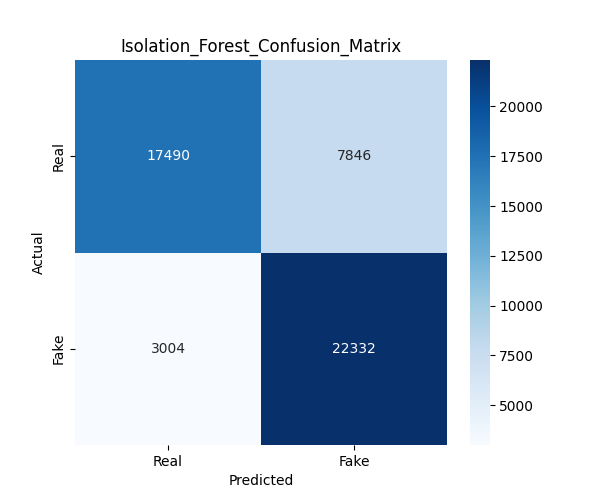
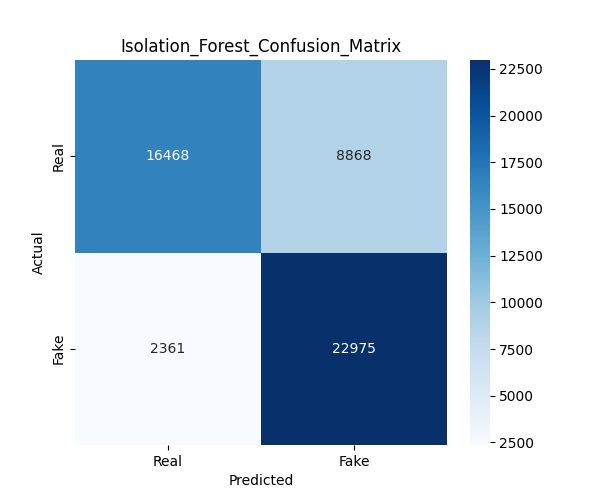
Improve the accuracy, precision, & recall of the model by exclude label-encoded categoties.

diff --git a/backend/src/post_detect/p4_ml_agent.py b/backend/src/post_detect/p4_ml_agent.py
@@ -32,12 +32,19 @@ def engineer_features(df):
     eps = 1e-6
     features = pd.DataFrame(index=df.index)
 
+    # Exclude label-encoded categoricals
+    encoded_categoricals = {
+        "is_fake", "activity_id", "user_id",
+        "post_country", "post_region", "post_city",
+        "device", "platform", "media_type", "content_type", "language",
+    }
+
     # Get all numerical columns
     numerical_columns = (df.select_dtypes(include='number').columns)
 
-    # Raw numeric signals
+    # Raw numeric signals (skip encoded categoricals)
     for col in numerical_columns:
-        if col in df.columns:
+        if col in df.columns and col not in encoded_categoricals:
             features[col] = df[col].astype(float)
 
     # Engagement ratios
@@ -78,7 +85,7 @@ def train_isolation_forest(X_normal, X_all, contamination=0.45):
     return model, predictions, scores
 
 
-def train_lof(X_normal, X_all, contamination=0.45):
+def train_lof(X_normal, X_all, contamination=0.35):
     model = LocalOutlierFactor(n_neighbors=20, novelty=True, metric="euclidean", contamination=contamination, n_jobs=-1)
     model.fit(X_normal)
     scores = model.decision_function(X_all)
@@ -198,32 +205,30 @@ def main(df):
     mask_normal = ~df["is_fake"].astype(bool)
     X_normal = X_scaled[mask_normal]
 
-    contamination = 0.5
+    contamination = 0.35
 
     # Train Isolation Forest model
-    if_model, if_preds, if_scores = train_isolation_forest(X_normal, X_scaled, contamination)
+    if_model, if_preds, _ = train_isolation_forest(X_normal, X_scaled, contamination)
 
     print("\nIsolation Forest raw predictions")
     print(pd.Series(if_preds).value_counts())
     plot_anomaly_results(if_preds, "Isolation_Forest_Result")
     plot_feature_importance(if_model, list(X_eng.columns), "Feature_Importance_IF")
 
-    if_best = find_best_threshold(y_true, if_scores)
-    thresh, prec, rec, f1, if_y_pred = if_best
-
+    # Convert raw predictions whre -1 (anomaly) means 1 (fake), and 1 (normal) means 0 (real)
+    if_y_pred = (if_preds == -1).astype(int)
     plot_confusion_matrix(y_true, if_y_pred, "Isolation_Forest_Confusion_Matrix")
     evaluate_model(y_true, if_y_pred, "Isolation Forest")
 
-    # Train the Local Outlier Factor model 
-    lof_preds, lof_scores = train_lof(X_normal, X_scaled, contamination)
+    # Train the Local Outlier Factor model
+    lof_preds, _ = train_lof(X_normal, X_scaled, contamination)
 
     print("\nLOF raw predictions")
     print(pd.Series(lof_preds).value_counts())
     plot_anomaly_results(lof_preds, "LOF_Result")
 
-    lof_best = find_best_threshold(y_true, lof_scores)
-    thresh, prec, rec, f1, lof_y_pred = lof_best
-
+    # Convert raw predictions whre -1 (anomaly) means 1 (fake), and 1 (normal) means 0 (real)
+    lof_y_pred = (lof_preds == -1).astype(int)
     plot_confusion_matrix(y_true, lof_y_pred, "LOF_Confusion_Matrix")
     evaluate_model(y_true, lof_y_pred, "Local Outlier Factor")
 

diff --git a/backend/src/account_detect/p4_fake_account_detection.py b/backend/src/account_detect/p4_fake_account_detection.py
@@ -152,33 +152,27 @@ def main(df):
     mask_normal = (df["fake"] == 0).values
     X_normal = X_scaled[mask_normal]
 
-    actual_contamination = float(np.clip(y_true.mean(), 0.05, 0.45))
+    contamination = 0.5
 
     # Train Isolation Forest
-    if_preds, if_scores = train_isolation_forest(X_normal, X_scaled, contamination=actual_contamination)
+    if_preds, _ = train_isolation_forest(X_normal, X_scaled, contamination=contamination)
 
     print("\nIsolation Forest raw predictions")
     print(pd.Series(if_preds).value_counts())
     plot_anomaly_results(if_preds, "Isolation_Forest_Result")
 
-    if_best = find_best_threshold(y_true, if_scores)
-    thresh, prec, rec, acc, f1, if_y_pred = if_best
-    
+    if_y_pred = (if_preds == -1).astype(int)
     plot_confusion_matrix(y_true, if_y_pred, "Isolation_Forest_Confusion_Matrix")
     evaluate_model(y_true, if_y_pred, "Isolation Forest")
 
-
-    # Train Local Outlier Factor 
-    lof_preds, lof_scores = train_lof(X_normal, X_scaled)
+    # Train Local Outlier Factor
+    lof_preds, _ = train_lof(X_normal, X_scaled)
 
     print("\nLOF raw predictions")
     print(pd.Series(lof_preds).value_counts())
     plot_anomaly_results(lof_preds, "LOF_Result")
 
-    lof_best = find_best_threshold(y_true, lof_scores)
-    thresh, prec, rec, acc, f1, lof_y_pred = lof_best
-
-
+    lof_y_pred = (lof_preds == -1).astype(int)
     plot_confusion_matrix(y_true, lof_y_pred, "LOF_Confusion_Matrix")
     evaluate_model(y_true, lof_y_pred, "Local Outlier Factor")
 

diff --git a/backend/pipeline.py b/backend/pipeline.py
@@ -22,13 +22,13 @@ def main():
 
     '''Account Detection'''
     # Task 1
-    # cleaned_account_df = clean_dataset_account()
+    cleaned_account_df = clean_dataset_account()
     # Task 2
-    # exploratory_analysis_account(cleaned_account_df)
+    exploratory_analysis_account(cleaned_account_df)
     #Task 3
-    # perform_PCA_account(cleaned_account_df)
+    perform_PCA_account(cleaned_account_df)
     #Task 4
-    # training_model_account(cleaned_account_df)
+    training_model_account(cleaned_account_df)
 
 
 if __name__ == "__main__":
